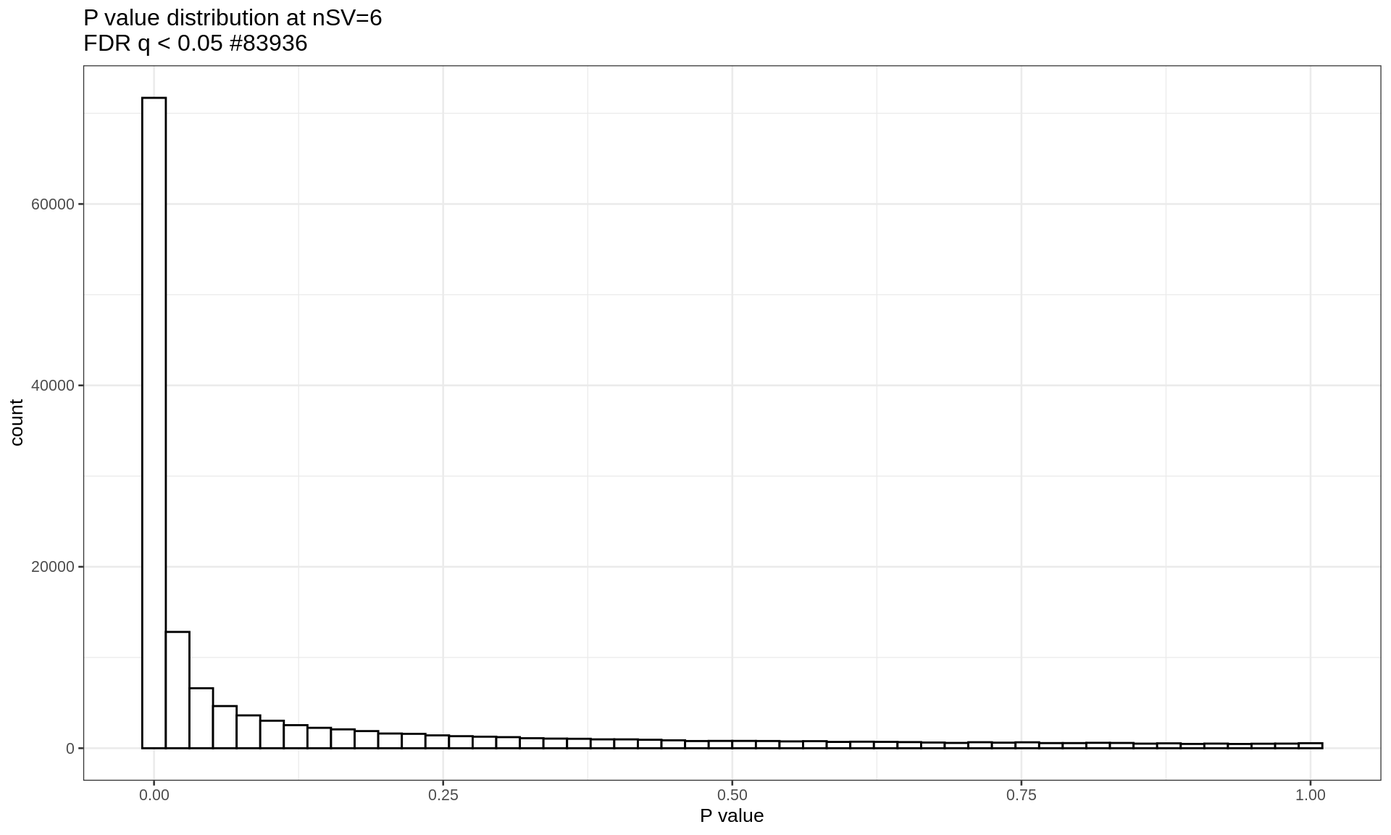
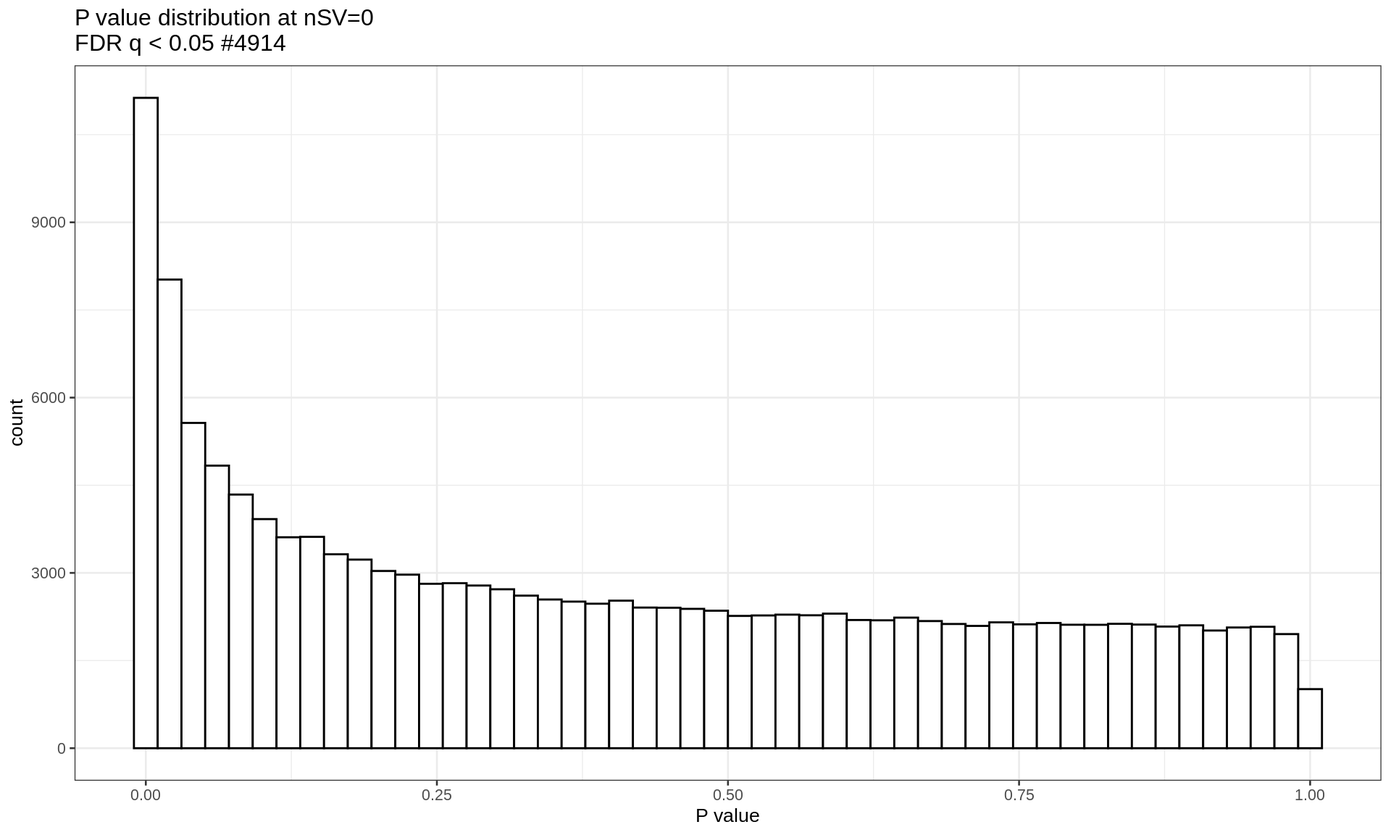
Repeated OFB aging analysis without sva

diff --git a/Brain_AgeAcceleration_OFB_Padlock_CGonly/index.html b/Brain_AgeAcceleration_OFB_Padlock_CGonly/index.html
@@ -252,7 +252,7 @@ div.tocify {
   <a href="authoring" class="dropdown-toggle" data-toggle="dropdown" role="button" aria-expanded="false">
     Data processing<span class="caret"></span>
   </a>
-  <ul class="dropdown-menu" role="menu"><li><a href=../Appendix_PDvsControls_Padlock/>Appendix PD vs Controls (bisulfite)</a></li><li><a href=../Appendix_PDvsControls_RNAseq/>Appendix PD vs Controls (RNA-seq)</a></li><li><a href=../Brain_OFB_Padlock_CGonly/>Olfactory bulb PD vs Controls (bisulfite)</a></li><li><a href=../Brain_PFCRep_Padlock_withGLU/>Prefrontal cortex PD vs Controls (bisulfite)</a></li><li><a href=../Brain_PFCRep_Padlock_withGLU_Braak/>Prefrontal cortex PD vs Controls stagewise (bisulfite)</a></li><li><a href=../Brain_PFC_Padlock_CGonly/>Prefrontal cortex replicate PD vs Controls (bisulfite)</a></li><li><a href=../Appendix_AgeAcceleration_Padlock/>Appendix Aging (bisulfite)</a></li><li><a href=../Appendix_AgeAcceleration_RNAseq/>Appendix Aging (RNA-seq)</a></li><li><a href=../Brain_AgeAcceleration_Padlock/>Prefrontal cortex aging (bisulfite)</a></li><li><a href=../Mice_CecalPatch_Padlock/>Mice cecal catch (bisulfite)</a></li><li><a href=../Mice_DSS_Padlock/>Mice DSS (bisulfite)</a></li>
+  <ul class="dropdown-menu" role="menu"><li><a href=../Appendix_PDvsControls_Padlock/>Appendix PD vs Controls (bisulfite)</a></li><li><a href=../Appendix_PDvsControls_RNAseq/>Appendix PD vs Controls (RNA-seq)</a></li><li><a href=../Brain_OFB_Padlock_CGonly/>Olfactory bulb PD vs Controls (bisulfite)</a></li><li><a href=../Brain_PFCRep_Padlock_withGLU/>Prefrontal cortex PD vs Controls (bisulfite)</a></li><li><a href=../Brain_PFCRep_Padlock_withGLU_Braak/>Prefrontal cortex PD vs Controls stagewise (bisulfite)</a></li><li><a href=../Brain_PFC_Padlock_CGonly/>Prefrontal cortex replicate PD vs Controls (bisulfite)</a></li><li><a href=../Appendix_AgeAcceleration_Padlock/>Appendix Aging (bisulfite)</a></li><li><a href=../Appendix_AgeAcceleration_RNAseq/>Appendix Aging (RNA-seq)</a></li><li><a href=../Brain_AgeAcceleration_Padlock/>Prefrontal cortex aging (bisulfite)</a></li><li><a href=../Brain_AgeAcceleration_OFB_Padlock_CGonly/>Olfactory bulb aging (bisulfite)</a></li><li><a href=../Mice_CecalPatch_Padlock/>Mice cecal catch (bisulfite)</a></li><li><a href=../Mice_DSS_Padlock/>Mice DSS (bisulfite)</a></li>
           </ul>
         </li><li class="dropdown">
   <a href="authoring" class="dropdown-toggle" data-toggle="dropdown" role="button" aria-expanded="false">
@@ -310,7 +310,7 @@ div.tocify {
 ##     &quot;formula&quot;: &quot;~ 0 + Group + Group:Age + Gender + PMI&quot;,
 ##     &quot;formula0&quot;: &quot;~ 0 + Group + Age + Gender + PMI&quot;,
 ##     &quot;contrasts&quot;: [&quot;GroupCTRL.Age&quot;, &quot;GroupPD.Age&quot;, &quot;GroupCTRL.Age - GroupPD.Age&quot;],
-##     &quot;svRange&quot;: [1, 2, 3, 4, 5, 6]
+##     &quot;nsv&quot;: 0
 ##   }
 ## }</code></pre>
 </div>
@@ -416,7 +416,6 @@ M
 <div id="section-sample-clustering" class="section level2">
 <h2>Sample clustering</h2>
 <p>Hierarchical clustering using correlations as similarity measure and Ward linkage.</p>
-<pre><code>## The &quot;ward&quot; method has been renamed to &quot;ward.D&quot;; note new &quot;ward.D2&quot;</code></pre>
 <p><img src="index_files/figure-html/unnamed-chunk-11-1.png" width="100%" /></p>
 <!-- 
   @@@@@@@@@@@@@@@@@@@@@@@@@@@@@@@
@@ -829,7 +828,7 @@ PC9
 <div id="section-select-the-number-of-svs" class="section level2">
 <h2>Select the number of SVs</h2>
 <p>All known covariates are regressed from data and PCA of residuals is computed. The number of PCs that explain more than 5% of variability is used as the desired number of SVs.</p>
-<pre><code>## Selected number of SVs 6</code></pre>
+<pre><code>## Number of SVs specified in parameters is 0</code></pre>
 </div>
 <div id="section-probe-level-models" class="section level2">
 <h2>Probe-level models</h2>
@@ -889,17 +888,13 @@ PC9
 ## other attached packages:
 ##  [1] ggsci_2.9             randomForest_4.6-14   caret_6.0-86         
 ##  [4] lattice_0.20-41       ggrepel_0.8.2         bigmemory_4.5.36     
-##  [7] SmartSVA_0.1.3        RSpectra_0.16-0       isva_1.9             
-## [10] JADE_2.0-3            fastICA_1.2-2         qvalue_2.18.0        
-## [13] sva_3.34.0            BiocParallel_1.20.0   genefilter_1.68.0    
-## [16] mgcv_1.8-32           nlme_3.1-148          latex2exp_0.4.0      
-## [19] doSNOW_1.0.18         snow_0.4-3            itertools_0.1-3      
-## [22] iterators_1.0.12      limma_3.42.0          impute_1.60.0        
-## [25] WGCNA_1.69            fastcluster_1.1.25    dynamicTreeCut_1.63-1
-## [28] glue_1.4.1            foreach_1.5.0         ggpubr_0.4.0         
-## [31] plotly_4.9.2.1        ggplot2_3.3.2         dplyr_1.0.2          
-## [34] data.table_1.12.8     kableExtra_1.1.0      knitr_1.29           
-## [37] shiny_1.5.0          
+##  [7] latex2exp_0.4.0       doSNOW_1.0.18         snow_0.4-3           
+## [10] itertools_0.1-3       iterators_1.0.12      limma_3.42.0         
+## [13] impute_1.60.0         WGCNA_1.69            fastcluster_1.1.25   
+## [16] dynamicTreeCut_1.63-1 glue_1.4.1            foreach_1.5.0        
+## [19] ggpubr_0.4.0          plotly_4.9.2.1        ggplot2_3.3.2        
+## [22] dplyr_1.0.2           data.table_1.12.8     kableExtra_1.1.0     
+## [25] knitr_1.29            shiny_1.5.0          
 ## 
 ## loaded via a namespace (and not attached):
 ##   [1] readxl_1.3.1          backports_1.1.8       Hmisc_4.4-1          
@@ -907,42 +902,41 @@ PC9
 ##   [7] digest_0.6.25         htmltools_0.5.0       GO.db_3.10.0         
 ##  [10] magrittr_1.5          checkmate_2.0.0       memoise_1.1.0        
 ##  [13] cluster_2.1.0         doParallel_1.0.15     openxlsx_4.1.5       
-##  [16] recipes_0.1.13        readr_1.3.1           annotate_1.64.0      
-##  [19] gower_0.2.2           matrixStats_0.56.0    jpeg_0.1-8.1         
-##  [22] colorspace_1.4-1      blob_1.2.1            rvest_0.3.6          
-##  [25] haven_2.3.1           xfun_0.16             bigmemory.sri_0.1.3  
-##  [28] crayon_1.3.4          RCurl_1.98-1.2        jsonlite_1.7.0       
-##  [31] survival_3.2-3        gtable_0.3.0          ipred_0.9-9          
-##  [34] webshot_0.5.2         car_3.0-9             BiocGenerics_0.32.0  
-##  [37] abind_1.4-5           scales_1.1.1          DBI_1.1.0            
-##  [40] rstatix_0.6.0         Rcpp_1.0.5            rlecuyer_0.3-4       
-##  [43] viridisLite_0.3.0     xtable_1.8-4          htmlTable_2.0.1      
-##  [46] clue_0.3-57           foreign_0.8-76        bit_4.0.4            
-##  [49] preprocessCore_1.48.0 Formula_1.2-3         lava_1.6.7           
-##  [52] prodlim_2019.11.13    stats4_3.6.1          htmlwidgets_1.5.1    
-##  [55] httr_1.4.2            RColorBrewer_1.1-2    ellipsis_0.3.1       
-##  [58] pkgconfig_2.0.3       XML_3.99-0.3          farver_2.0.3         
-##  [61] nnet_7.3-14           tidyselect_1.1.0      labeling_0.3         
-##  [64] rlang_0.4.7           reshape2_1.4.4        later_1.1.0.1        
-##  [67] AnnotationDbi_1.48.0  munsell_0.5.0         cellranger_1.1.0     
-##  [70] tools_3.6.1           generics_0.0.2        RSQLite_2.2.0        
-##  [73] broom_0.7.0           evaluate_0.14         stringr_1.4.0        
-##  [76] fastmap_1.0.1         yaml_2.2.1            ModelMetrics_1.2.2.2 
-##  [79] bit64_4.0.2           zip_2.1.0             purrr_0.3.4          
-##  [82] mime_0.9              xml2_1.3.2            compiler_3.6.1       
-##  [85] rstudioapi_0.11       curl_4.3              png_0.1-7            
-##  [88] ggsignif_0.6.0        tibble_3.0.3          stringi_1.4.6        
-##  [91] highr_0.8             forcats_0.5.0         Matrix_1.2-18        
-##  [94] vctrs_0.3.2           pillar_1.4.6          lifecycle_0.2.0      
-##  [97] cowplot_1.0.0         bitops_1.0-6          httpuv_1.5.4         
-## [100] R6_2.4.1              latticeExtra_0.6-29   promises_1.1.1       
-## [103] gridExtra_2.3         rio_0.5.16            IRanges_2.20.0       
-## [106] codetools_0.2-16      MASS_7.3-52           withr_2.2.0          
-## [109] S4Vectors_0.24.0      hms_0.5.3             timeDate_3043.102    
-## [112] grid_3.6.1            rpart_4.1-15          class_7.3-17         
-## [115] tidyr_1.1.1           rmarkdown_1.18        carData_3.0-4        
-## [118] pROC_1.16.2           lubridate_1.7.9       Biobase_2.46.0       
-## [121] base64enc_0.1-3</code></pre>
+##  [16] recipes_0.1.13        readr_1.3.1           gower_0.2.2          
+##  [19] matrixStats_0.56.0    jpeg_0.1-8.1          colorspace_1.4-1     
+##  [22] blob_1.2.1            rvest_0.3.6           haven_2.3.1          
+##  [25] xfun_0.16             crayon_1.3.4          jsonlite_1.7.0       
+##  [28] bigmemory.sri_0.1.3   survival_3.2-3        gtable_0.3.0         
+##  [31] ipred_0.9-9           webshot_0.5.2         car_3.0-9            
+##  [34] BiocGenerics_0.32.0   abind_1.4-5           scales_1.1.1         
+##  [37] DBI_1.1.0             rstatix_0.6.0         Rcpp_1.0.5           
+##  [40] rlecuyer_0.3-4        viridisLite_0.3.0     xtable_1.8-4         
+##  [43] htmlTable_2.0.1       foreign_0.8-76        bit_4.0.4            
+##  [46] preprocessCore_1.48.0 Formula_1.2-3         lava_1.6.7           
+##  [49] prodlim_2019.11.13    stats4_3.6.1          htmlwidgets_1.5.1    
+##  [52] httr_1.4.2            RColorBrewer_1.1-2    ellipsis_0.3.1       
+##  [55] pkgconfig_2.0.3       farver_2.0.3          nnet_7.3-14          
+##  [58] tidyselect_1.1.0      labeling_0.3          rlang_0.4.7          
+##  [61] reshape2_1.4.4        later_1.1.0.1         AnnotationDbi_1.48.0 
+##  [64] munsell_0.5.0         cellranger_1.1.0      tools_3.6.1          
+##  [67] generics_0.0.2        RSQLite_2.2.0         broom_0.7.0          
+##  [70] evaluate_0.14         stringr_1.4.0         fastmap_1.0.1        
+##  [73] yaml_2.2.1            ModelMetrics_1.2.2.2  bit64_4.0.2          
+##  [76] zip_2.1.0             purrr_0.3.4           nlme_3.1-148         
+##  [79] mime_0.9              xml2_1.3.2            compiler_3.6.1       
+##  [82] rstudioapi_0.11       curl_4.3              png_0.1-7            
+##  [85] ggsignif_0.6.0        tibble_3.0.3          stringi_1.4.6        
+##  [88] highr_0.8             forcats_0.5.0         Matrix_1.2-18        
+##  [91] vctrs_0.3.2           pillar_1.4.6          lifecycle_0.2.0      
+##  [94] cowplot_1.0.0         httpuv_1.5.4          R6_2.4.1             
+##  [97] latticeExtra_0.6-29   promises_1.1.1        gridExtra_2.3        
+## [100] rio_0.5.16            IRanges_2.20.0        codetools_0.2-16     
+## [103] MASS_7.3-52           withr_2.2.0           S4Vectors_0.24.0     
+## [106] mgcv_1.8-32           hms_0.5.3             grid_3.6.1           
+## [109] rpart_4.1-15          timeDate_3043.102     class_7.3-17         
+## [112] tidyr_1.1.1           rmarkdown_1.18        carData_3.0-4        
+## [115] pROC_1.16.2           lubridate_1.7.9       Biobase_2.46.0       
+## [118] base64enc_0.1-3</code></pre>
 <!--html_preserve-->
 <script type="application/shiny-prerendered" data-context="dependencies">
 {"type":"list","attributes":{},"value":[{"type":"list","attributes":{"names":{"type":"character","attributes":{},"value":["name","version","src","meta","script","stylesheet","head","attachment","package","all_files","pkgVersion"]},"class":{"type":"character","attributes":{},"value":["html_dependency"]}},"value":[{"type":"character","attributes":{},"value":["jquery"]},{"type":"character","attributes":{},"value":["1.11.3"]},{"type":"list","attributes":{"names":{"type":"character","attributes":{},"value":["file"]}},"value":[{"type":"character","attributes":{},"value":["rmd/h/jquery"]}]},{"type":"NULL"},{"type":"character","attributes":{},"value":["jquery.min.js"]},{"type":"NULL"},{"type":"NULL"},{"type":"NULL"},{"type":"character","attributes":{},"value":["rmarkdown"]},{"type":"logical","attributes":{},"value":[true]},{"type":"character","attributes":{},"value":["1.18"]}]},{"type":"list","attributes":{"names":{"type":"character","attributes":{},"value":["name","version","src","meta","script","stylesheet","head","attachment","package","all_files","pkgVersion"]},"class":{"type":"character","attributes":{},"value":["html_dependency"]}},"value":[{"type":"character","attributes":{},"value":["bootstrap"]},{"type":"character","attributes":{},"value":["3.3.5"]},{"type":"list","attributes":{"names":{"type":"character","attributes":{},"value":["file"]}},"value":[{"type":"character","attributes":{},"value":["rmd/h/bootstrap"]}]},{"type":"list","attributes":{"names":{"type":"character","attributes":{},"value":["viewport"]}},"value":[{"type":"character","attributes":{},"value":["width=device-width, initial-scale=1"]}]},{"type":"character","attributes":{},"value":["js/bootstrap.min.js","shim/html5shiv.min.js","shim/respond.min.js"]},{"type":"character","attributes":{},"value":["css/bootstrap.min.css"]},{"type":"NULL"},{"type":"NULL"},{"type":"character","attributes":{},"value":["rmarkdown"]},{"type":"logical","attributes":{},"value":[true]},{"type":"character","attributes":{},"value":["1.18"]}]},{"type":"list","attributes":{"names":{"type":"character","attributes":{},"value":["name","version","src","meta","script","stylesheet","head","attachment","package","all_files","pkgVersion"]},"class":{"type":"character","attributes":{},"value":["html_dependency"]}},"value":[{"type":"character","attributes":{},"value":["jquery"]},{"type":"character","attributes":{},"value":["1.11.3"]},{"type":"list","attributes":{"names":{"type":"character","attributes":{},"value":["file"]}},"value":[{"type":"character","attributes":{},"value":["rmd/h/jquery"]}]},{"type":"NULL"},{"type":"character","attributes":{},"value":["jquery.min.js"]},{"type":"NULL"},{"type":"NULL"},{"type":"NULL"},{"type":"character","attributes":{},"value":["rmarkdown"]},{"type":"logical","attributes":{},"value":[true]},{"type":"character","attributes":{},"value":["1.18"]}]},{"type":"list","attributes":{"names":{"type":"character","attributes":{},"value":["name","version","src","meta","script","stylesheet","head","attachment","package","all_files","pkgVersion"]},"class":{"type":"character","attributes":{},"value":["html_dependency"]}},"value":[{"type":"character","attributes":{},"value":["jqueryui"]},{"type":"character","attributes":{},"value":["1.11.4"]},{"type":"list","attributes":{"names":{"type":"character","attributes":{},"value":["file"]}},"value":[{"type":"character","attributes":{},"value":["rmd/h/jqueryui"]}]},{"type":"NULL"},{"type":"character","attributes":{},"value":["jquery-ui.min.js"]},{"type":"NULL"},{"type":"NULL"},{"type":"NULL"},{"type":"character","attributes":{},"value":["rmarkdown"]},{"type":"logical","attributes":{},"value":[true]},{"type":"character","attributes":{},"value":["1.18"]}]},{"type":"list","attributes":{"names":{"type":"character","attributes":{},"value":["name","version","src","meta","script","stylesheet","head","attachment","package","all_files","pkgVersion"]},"class":{"type":"character","attributes":{},"value":["html_dependency"]}},"value":[{"type":"character","attributes":{},"value":["tocify"]},{"type":"character","attributes":{},"value":["1.9.1"]},{"type":"list","attributes":{"names":{"type":"character","attributes":{},"value":["file"]}},"value":[{"type":"character","attributes":{},"value":["rmd/h/tocify"]}]},{"type":"NULL"},{"type":"character","attributes":{},"value":["jquery.tocify.js"]},{"type":"character","attributes":{},"value":["jquery.tocify.css"]},{"type":"NULL"},{"type":"NULL"},{"type":"character","attributes":{},"value":["rmarkdown"]},{"type":"logical","attributes":{},"value":[true]},{"type":"character","attributes":{},"value":["1.18"]}]},{"type":"list","attributes":{"names":{"type":"character","attributes":{},"value":["name","version","src","meta","script","stylesheet","head","attachment","package","all_files","pkgVersion"]},"class":{"type":"character","attributes":{},"value":["html_dependency"]}},"value":[{"type":"character","attributes":{},"value":["jquery"]},{"type":"character","attributes":{},"value":["1.11.3"]},{"type":"list","attributes":{"names":{"type":"character","attributes":{},"value":["file"]}},"value":[{"type":"character","attributes":{},"value":["rmd/h/jquery"]}]},{"type":"NULL"},{"type":"character","attributes":{},"value":["jquery.min.js"]},{"type":"NULL"},{"type":"NULL"},{"type":"NULL"},{"type":"character","attributes":{},"value":["rmarkdown"]},{"type":"logical","attributes":{},"value":[true]},{"type":"character","attributes":{},"value":["1.18"]}]},{"type":"list","attributes":{"names":{"type":"character","attributes":{},"value":["name","version","src","meta","script","stylesheet","head","attachment","package","all_files","pkgVersion"]},"class":{"type":"character","attributes":{},"value":["html_dependency"]}},"value":[{"type":"character","attributes":{},"value":["navigation"]},{"type":"character","attributes":{},"value":["1.1"]},{"type":"list","attributes":{"names":{"type":"character","attributes":{},"value":["file"]}},"value":[{"type":"character","attributes":{},"value":["rmd/h/navigation-1.1"]}]},{"type":"NULL"},{"type":"character","attributes":{},"value":["tabsets.js"]},{"type":"NULL"},{"type":"NULL"},{"type":"NULL"},{"type":"character","attributes":{},"value":["rmarkdown"]},{"type":"logical","attributes":{},"value":[true]},{"type":"character","attributes":{},"value":["1.18"]}]},{"type":"list","attributes":{"names":{"type":"character","attributes":{},"value":["name","version","src","meta","script","stylesheet","head","attachment","package","all_files","pkgVersion"]},"class":{"type":"character","attributes":{},"value":["html_dependency"]}},"value":[{"type":"character","attributes":{},"value":["highlightjs"]},{"type":"character","attributes":{},"value":["9.12.0"]},{"type":"list","attributes":{"names":{"type":"character","attributes":{},"value":["file"]}},"value":[{"type":"character","attributes":{},"value":["rmd/h/highlightjs"]}]},{"type":"NULL"},{"type":"character","attributes":{},"value":["highlight.js"]},{"type":"character","attributes":{},"value":["default.css"]},{"type":"NULL"},{"type":"NULL"},{"type":"character","attributes":{},"value":["rmarkdown"]},{"type":"logical","attributes":{},"value":[true]},{"type":"character","attributes":{},"value":["1.18"]}]},{"type":"list","attributes":{"names":{"type":"character","attributes":{},"value":["name","version","src","meta","script","stylesheet","head","attachment","package","all_files","pkgVersion"]},"class":{"type":"character","attributes":{},"value":["html_dependency"]}},"value":[{"type":"character","attributes":{},"value":["kePrint"]},{"type":"character","attributes":{},"value":["0.0.1"]},{"type":"list","attributes":{"names":{"type":"character","attributes":{},"value":["file"]}},"value":[{"type":"character","attributes":{},"value":["kePrint-0.0.1"]}]},{"type":"NULL"},{"type":"character","attributes":{},"value":["kePrint.js"]},{"type":"NULL"},{"type":"NULL"},{"type":"NULL"},{"type":"character","attributes":{},"value":["kableExtra"]},{"type":"logical","attributes":{},"value":[true]},{"type":"character","attributes":{},"value":["1.1.0"]}]},{"type":"list","attributes":{"names":{"type":"character","attributes":{},"value":["name","version","src","meta","script","stylesheet","head","attachment","package","all_files","pkgVersion"]},"class":{"type":"character","attributes":{},"value":["html_dependency"]}},"value":[{"type":"character","attributes":{},"value":["kePrint"]},{"type":"character","attributes":{},"value":["0.0.1"]},{"type":"list","attributes":{"names":{"type":"character","attributes":{},"value":["file"]}},"value":[{"type":"character","attributes":{},"value":["kePrint-0.0.1"]}]},{"type":"NULL"},{"type":"character","attributes":{},"value":["kePrint.js"]},{"type":"NULL"},{"type":"NULL"},{"type":"NULL"},{"type":"character","attributes":{},"value":["kableExtra"]},{"type":"logical","attributes":{},"value":[true]},{"type":"character","attributes":{},"value":["1.1.0"]}]}]}
@@ -950,7 +944,7 @@ PC9
 <!--/html_preserve-->
 <!--html_preserve-->
 <script type="application/shiny-prerendered" data-context="execution_dependencies">
-{"type":"list","attributes":{"names":{"type":"character","attributes":{},"value":["packages"]}},"value":[{"type":"list","attributes":{"names":{"type":"character","attributes":{},"value":["packages","version"]},"class":{"type":"character","attributes":{},"value":["data.frame"]},"row.names":{"type":"integer","attributes":{},"value":[1,2,3,4,5,6,7,8,9,10,11,12,13,14,15,16,17,18,19,20,21,22,23,24,25,26,27,28,29,30,31,32,33,34,35,36,37,38,39,40,41,42,43,44,45,46,47,48,49,50,51,52,53,54,55,56,57,58,59,60,61,62,63,64,65,66,67,68,69,70,71,72,73,74,75,76,77,78,79,80,81,82,83,84,85,86,87,88,89,90,91,92,93,94,95,96,97,98,99,100,101,102,103,104,105,106,107,108,109,110,111,112,113,114,115,116,117,118,119,120,121,122,123,124,125,126,127,128,129,130,131,132,133,134,135,136,137,138,139,140,141,142,143,144,145,146,147,148,149,150,151,152,153,154,155,156,157,158,159,160,161,162,163,164,165,166]}},"value":[{"type":"character","attributes":{},"value":["abind","annotate","AnnotationDbi","backports","base","base64enc","bigmemory","bigmemory.sri","Biobase","BiocGenerics","BiocParallel","bit","bit64","bitops","blob","broom","car","carData","caret","cellranger","checkmate","class","clue","cluster","codetools","colorspace","compiler","cowplot","crayon","curl","data.table","datasets","DBI","digest","doParallel","doSNOW","dplyr","dynamicTreeCut","ellipsis","evaluate","farver","fastcluster","fastICA","fastmap","forcats","foreach","foreign","Formula","genefilter","generics","ggplot2","ggpubr","ggrepel","ggsci","ggsignif","glue","GO.db","gower","graphics","grDevices","grid","gridExtra","gtable","haven","highr","Hmisc","hms","htmlTable","htmltools","htmlwidgets","httpuv","httr","impute","ipred","IRanges","isva","iterators","itertools","JADE","jpeg","jsonlite","kableExtra","knitr","labeling","later","latex2exp","lattice","latticeExtra","lava","lazyeval","lifecycle","limma","lubridate","magrittr","MASS","Matrix","matrixStats","memoise","methods","mgcv","mime","ModelMetrics","munsell","nlme","nnet","openxlsx","parallel","pillar","pkgconfig","plotly","plyr","png","preprocessCore","pROC","prodlim","promises","purrr","qvalue","R6","randomForest","RColorBrewer","Rcpp","RCurl","readr","readxl","recipes","reshape2","rio","rlang","rlecuyer","rmarkdown","rpart","RSpectra","RSQLite","rstatix","rstudioapi","rvest","S4Vectors","scales","shiny","SmartSVA","snow","splines","stats","stats4","stringi","stringr","survival","sva","tibble","tidyr","tidyselect","timeDate","tools","utils","vctrs","viridisLite","webshot","WGCNA","withr","xfun","XML","xml2","xtable","yaml","zip"]},{"type":"character","attributes":{},"value":["1.4-5","1.64.0","1.48.0","1.1.8","3.6.1","0.1-3","4.5.36","0.1.3","2.46.0","0.32.0","1.20.0","4.0.4","4.0.2","1.0-6","1.2.1","0.7.0","3.0-9","3.0-4","6.0-86","1.1.0","2.0.0","7.3-17","0.3-57","2.1.0","0.2-16","1.4-1","3.6.1","1.0.0","1.3.4","4.3","1.12.8","3.6.1","1.1.0","0.6.25","1.0.15","1.0.18","1.0.2","1.63-1","0.3.1","0.14","2.0.3","1.1.25","1.2-2","1.0.1","0.5.0","1.5.0","0.8-76","1.2-3","1.68.0","0.0.2","3.3.2","0.4.0","0.8.2","2.9","0.6.0","1.4.1","3.10.0","0.2.2","3.6.1","3.6.1","3.6.1","2.3","0.3.0","2.3.1","0.8","4.4-1","0.5.3","2.0.1","0.5.0","1.5.1","1.5.4","1.4.2","1.60.0","0.9-9","2.20.0","1.9","1.0.12","0.1-3","2.0-3","0.1-8.1","1.7.0","1.1.0","1.29","0.3","1.1.0.1","0.4.0","0.20-41","0.6-29","1.6.7","0.2.2","0.2.0","3.42.0","1.7.9","1.5","7.3-52","1.2-18","0.56.0","1.1.0","3.6.1","1.8-32","0.9","1.2.2.2","0.5.0","3.1-148","7.3-14","4.1.5","3.6.1","1.4.6","2.0.3","4.9.2.1","1.8.6","0.1-7","1.48.0","1.16.2","2019.11.13","1.1.1","0.3.4","2.18.0","2.4.1","4.6-14","1.1-2","1.0.5","1.98-1.2","1.3.1","1.3.1","0.1.13","1.4.4","0.5.16","0.4.7","0.3-4","1.18","4.1-15","0.16-0","2.2.0","0.6.0","0.11","0.3.6","0.24.0","1.1.1","1.5.0","0.1.3","0.4-3","3.6.1","3.6.1","3.6.1","1.4.6","1.4.0","3.2-3","3.34.0","3.0.3","1.1.1","1.1.0","3043.102","3.6.1","3.6.1","0.3.2","0.3.0","0.5.2","1.69","2.2.0","0.16","3.99-0.3","1.3.2","1.8-4","2.2.1","2.1.0"]}]}]}
+{"type":"list","attributes":{"names":{"type":"character","attributes":{},"value":["packages"]}},"value":[{"type":"list","attributes":{"names":{"type":"character","attributes":{},"value":["packages","version"]},"class":{"type":"character","attributes":{},"value":["data.frame"]},"row.names":{"type":"integer","attributes":{},"value":[1,2,3,4,5,6,7,8,9,10,11,12,13,14,15,16,17,18,19,20,21,22,23,24,25,26,27,28,29,30,31,32,33,34,35,36,37,38,39,40,41,42,43,44,45,46,47,48,49,50,51,52,53,54,55,56,57,58,59,60,61,62,63,64,65,66,67,68,69,70,71,72,73,74,75,76,77,78,79,80,81,82,83,84,85,86,87,88,89,90,91,92,93,94,95,96,97,98,99,100,101,102,103,104,105,106,107,108,109,110,111,112,113,114,115,116,117,118,119,120,121,122,123,124,125,126,127,128,129,130,131,132,133,134,135,136,137,138,139,140,141,142,143,144,145,146,147,148,149,150,151,152]}},"value":[{"type":"character","attributes":{},"value":["abind","AnnotationDbi","backports","base","base64enc","bigmemory","bigmemory.sri","Biobase","BiocGenerics","bit","bit64","blob","broom","car","carData","caret","cellranger","checkmate","class","cluster","codetools","colorspace","compiler","cowplot","crayon","curl","data.table","datasets","DBI","digest","doParallel","doSNOW","dplyr","dynamicTreeCut","ellipsis","evaluate","farver","fastcluster","fastmap","forcats","foreach","foreign","Formula","generics","ggplot2","ggpubr","ggrepel","ggsci","ggsignif","glue","GO.db","gower","graphics","grDevices","grid","gridExtra","gtable","haven","highr","Hmisc","hms","htmlTable","htmltools","htmlwidgets","httpuv","httr","impute","ipred","IRanges","iterators","itertools","jpeg","jsonlite","kableExtra","knitr","labeling","later","latex2exp","lattice","latticeExtra","lava","lazyeval","lifecycle","limma","lubridate","magrittr","MASS","Matrix","matrixStats","memoise","methods","mgcv","mime","ModelMetrics","munsell","nlme","nnet","openxlsx","parallel","pillar","pkgconfig","plotly","plyr","png","preprocessCore","pROC","prodlim","promises","purrr","R6","randomForest","RColorBrewer","Rcpp","readr","readxl","recipes","reshape2","rio","rlang","rlecuyer","rmarkdown","rpart","RSQLite","rstatix","rstudioapi","rvest","S4Vectors","scales","shiny","snow","splines","stats","stats4","stringi","stringr","survival","tibble","tidyr","tidyselect","timeDate","tools","utils","vctrs","viridisLite","webshot","WGCNA","withr","xfun","xml2","xtable","yaml","zip"]},{"type":"character","attributes":{},"value":["1.4-5","1.48.0","1.1.8","3.6.1","0.1-3","4.5.36","0.1.3","2.46.0","0.32.0","4.0.4","4.0.2","1.2.1","0.7.0","3.0-9","3.0-4","6.0-86","1.1.0","2.0.0","7.3-17","2.1.0","0.2-16","1.4-1","3.6.1","1.0.0","1.3.4","4.3","1.12.8","3.6.1","1.1.0","0.6.25","1.0.15","1.0.18","1.0.2","1.63-1","0.3.1","0.14","2.0.3","1.1.25","1.0.1","0.5.0","1.5.0","0.8-76","1.2-3","0.0.2","3.3.2","0.4.0","0.8.2","2.9","0.6.0","1.4.1","3.10.0","0.2.2","3.6.1","3.6.1","3.6.1","2.3","0.3.0","2.3.1","0.8","4.4-1","0.5.3","2.0.1","0.5.0","1.5.1","1.5.4","1.4.2","1.60.0","0.9-9","2.20.0","1.0.12","0.1-3","0.1-8.1","1.7.0","1.1.0","1.29","0.3","1.1.0.1","0.4.0","0.20-41","0.6-29","1.6.7","0.2.2","0.2.0","3.42.0","1.7.9","1.5","7.3-52","1.2-18","0.56.0","1.1.0","3.6.1","1.8-32","0.9","1.2.2.2","0.5.0","3.1-148","7.3-14","4.1.5","3.6.1","1.4.6","2.0.3","4.9.2.1","1.8.6","0.1-7","1.48.0","1.16.2","2019.11.13","1.1.1","0.3.4","2.4.1","4.6-14","1.1-2","1.0.5","1.3.1","1.3.1","0.1.13","1.4.4","0.5.16","0.4.7","0.3-4","1.18","4.1-15","2.2.0","0.6.0","0.11","0.3.6","0.24.0","1.1.1","1.5.0","0.4-3","3.6.1","3.6.1","3.6.1","1.4.6","1.4.0","3.2-3","3.0.3","1.1.1","1.1.0","3043.102","3.6.1","3.6.1","0.3.2","0.3.0","0.5.2","1.69","2.2.0","0.16","1.3.2","1.8-4","2.2.1","2.1.0"]}]}]}
 </script>
 <!--/html_preserve-->
 </div>
